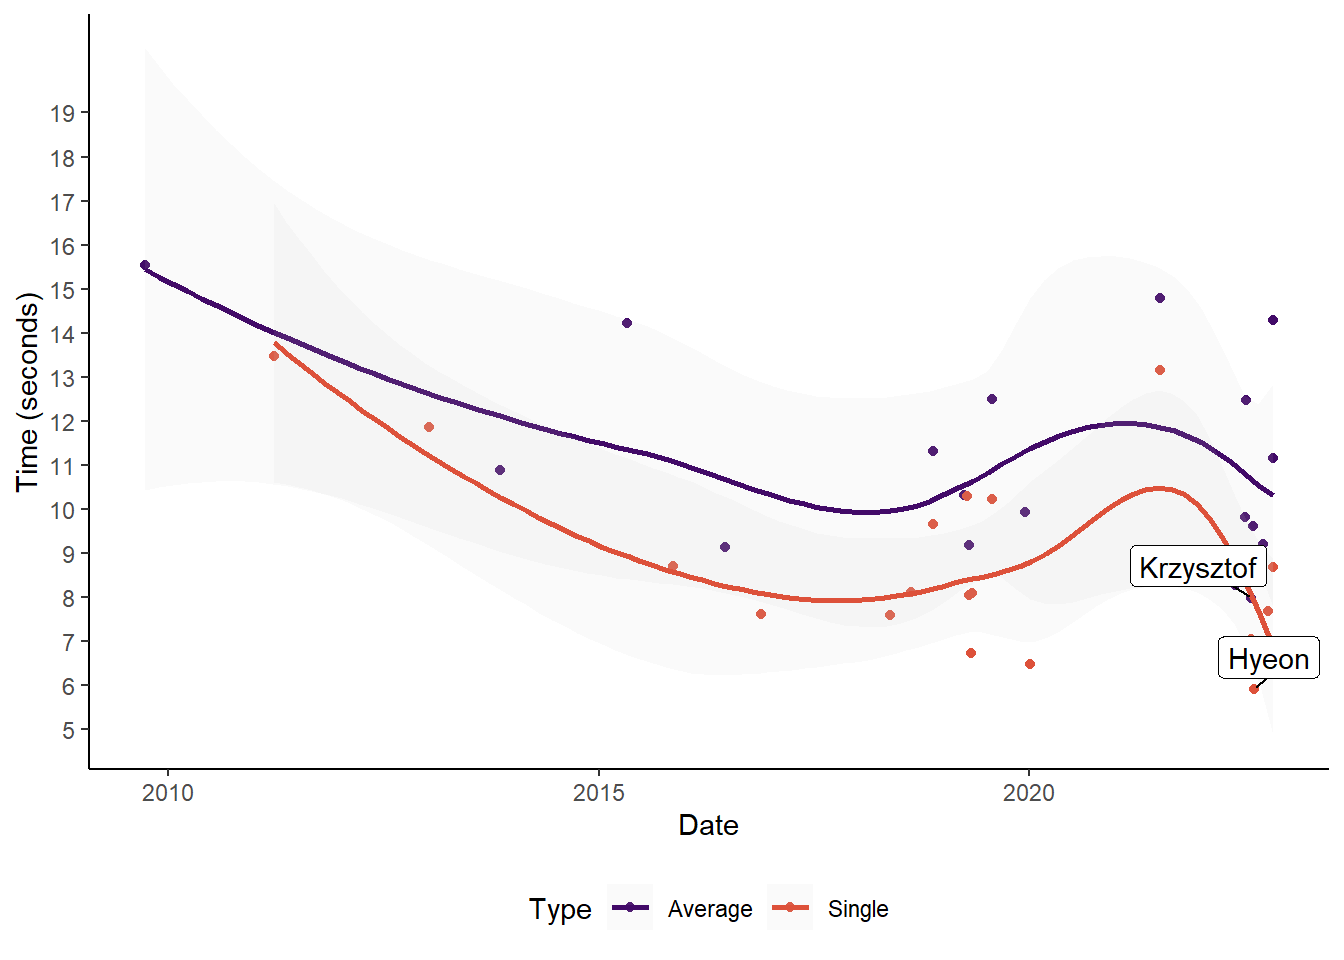
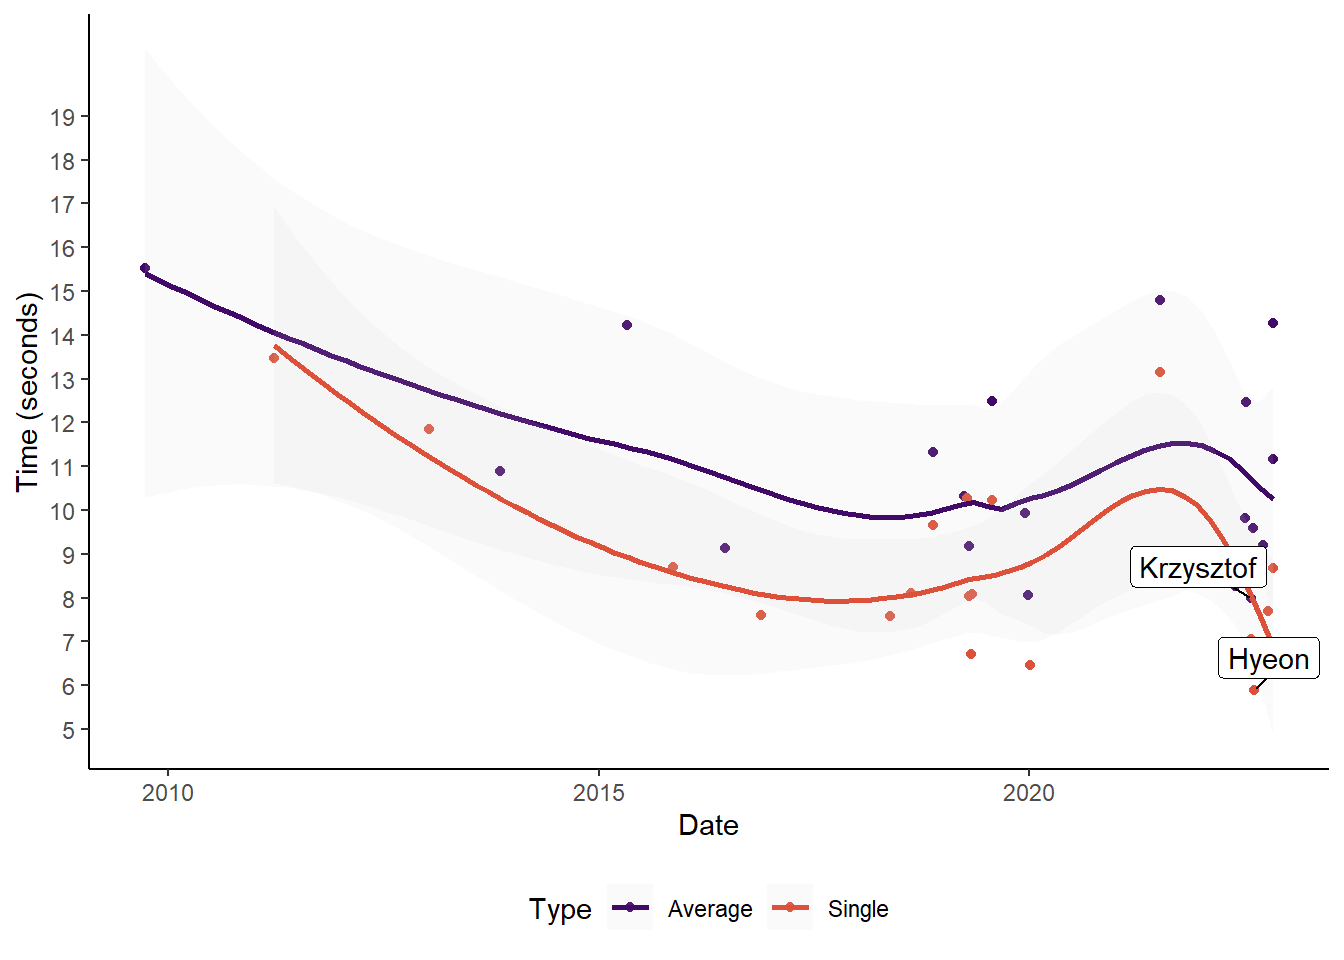
Updated ZZ records

diff --git a/docs/02_ZZ.html b/docs/02_ZZ.html
@@ -123,7 +123,7 @@
 <p>This information is based on competition results owned and maintained by the World Cube Assocation, published at <a href="https://worldcubeassociation.org/results" class="uri">https://worldcubeassociation.org/results</a> as of November 5, 2022.</p>
 <p><img src="_main_files/figure-html/unnamed-chunk-18-1.png" width="672" /></p>
 <div id="htmlwidget-4aa3ebedfbfc52d82635" class="reactable html-widget" style="width:auto;height:auto;"></div>
-<script type="application/json" data-for="htmlwidget-4aa3ebedfbfc52d82635">{"x":{"tag":{"name":"Reactable","attribs":{"data":{"Name":["Krzysztof Bloch","Dale Stephen M. Palmares","Andy Huang","Tiffany Chien","Joseph Tudor","Nathaniel Gee","Phil Yu","Caleb Hoover","Andrew Nathenson","Eli Lifland","Jake Williams","Justin Taylor","Marek Pepke","Carlos Rill Garcia","Matt DiPalma","Simon Carl Pi Karlsson","Ryan Hudgens","Zbigniew Zborowski","Hyeon Kyo Kyoung (경현교)"],"WCA ID":["2019BLOC02","2016STEP05","2013HUAN07","2012CHIE01","2016TUDO02","2016GEEN01","2010YUPH01","2016HOOV01","2011NATH02","2012LIFL01","2022WILL04","2017TAYL02","2008PEPK01","2016GARC34","2011DIPA01","2022KARL02","2021HUDG01","2003ZBOR02","2013KYOU01"],"Single":[7.05,6.72,6.47,7.61,8.04,7.69,7.59,8.08,8.1,8.7,8.85,9.66,10.28,10.23,11.86,8.67,13.16,13.47,5.9],"Average":[7.98,8.26,9.14,9.17,9.19,9.6,9.82,9.93,10.31,10.88,11.16,11.32,12.46,12.49,14.23,14.28,14.79,15.53,"NA"]},"columns":[{"accessor":"Name","name":"Name","type":"character"},{"accessor":"WCA ID","name":"WCA ID","type":"character"},{"accessor":"Single","name":"Single","type":"numeric"},{"accessor":"Average","name":"Average","type":"numeric"}],"searchable":true,"defaultPageSize":100,"paginationType":"numbers","showPageInfo":true,"minRows":1,"dataKey":"ec35980bd09f0beb39881ea768352a78"},"children":[]},"class":"reactR_markup"},"evals":[],"jsHooks":[]}</script>
+<script type="application/json" data-for="htmlwidget-4aa3ebedfbfc52d82635">{"x":{"tag":{"name":"Reactable","attribs":{"data":{"Name":["Krzysztof Bloch","Hyeon Kyo Kyoung (경현교)","Dale Stephen M. Palmares","Andy Huang","Tiffany Chien","Joseph Tudor","Nathaniel Gee","Phil Yu","Caleb Hoover","Andrew Nathenson","Eli Lifland","Jake Williams","Justin Taylor","Marek Pepke","Carlos Rill Garcia","Matt DiPalma","Simon Carl Pi Karlsson","Ryan Hudgens","Zbigniew Zborowski"],"WCA ID":["2019BLOC02","2013KYOU01","2016STEP05","2013HUAN07","2012CHIE01","2016TUDO02","2016GEEN01","2010YUPH01","2016HOOV01","2011NATH02","2012LIFL01","2022WILL04","2017TAYL02","2008PEPK01","2016GARC34","2011DIPA01","2022KARL02","2021HUDG01","2003ZBOR02"],"Single":[7.05,5.9,6.72,6.47,7.61,8.04,7.69,7.59,8.08,8.1,8.7,8.85,9.66,10.28,10.23,11.86,8.67,13.16,13.47],"Average":[7.98,8.06,8.26,9.14,9.17,9.19,9.6,9.82,9.93,10.31,10.88,11.16,11.32,12.46,12.49,14.23,14.28,14.79,15.53]},"columns":[{"accessor":"Name","name":"Name","type":"character"},{"accessor":"WCA ID","name":"WCA ID","type":"character"},{"accessor":"Single","name":"Single","type":"numeric"},{"accessor":"Average","name":"Average","type":"numeric"}],"searchable":true,"defaultPageSize":100,"paginationType":"numbers","showPageInfo":true,"minRows":1,"dataKey":"9e88b4a246d99585cd1db1c5a882c5bf"},"children":[]},"class":"reactR_markup"},"evals":[],"jsHooks":[]}</script>
 
 </div>
 
